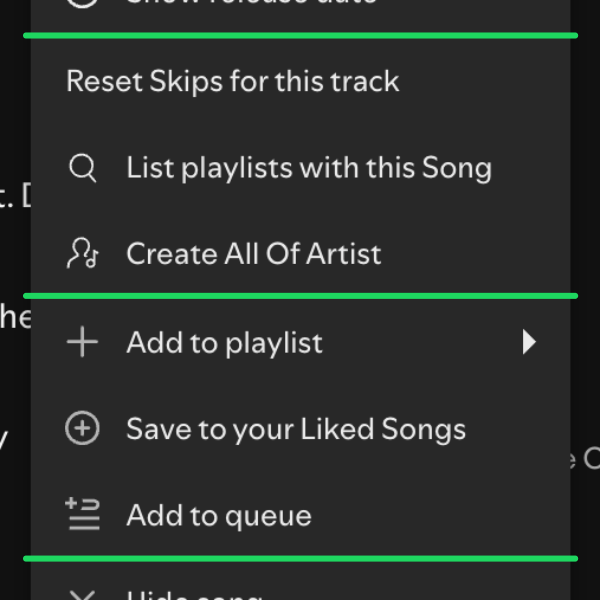
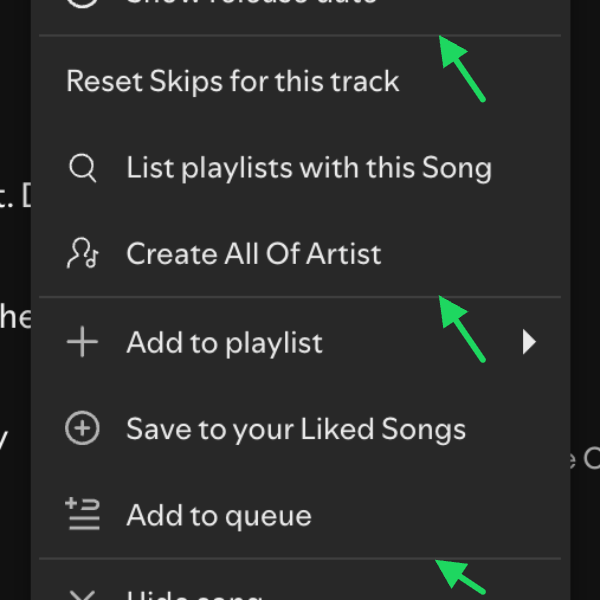
Menu dividers preview with arrows, genre-tags intro names The Sounds of Spotify first

Changed region(s): [[0.03, 0.03, 0.96, 0.18], [0.03, 0.9, 0.96, 0.99], [0.03, 0.48, 0.96, 0.6]]

diff --git a/genre-tags/README.md b/genre-tags/README.md
@@ -1,8 +1,10 @@
 # Genre Tags
 
-Shows the top Last.fm tags of the playing artist under the artist name in the now playing bar.
+Shows the genres of the playing artist in the now playing bar, and links each one to its "The Sound of ..." playlist from [The Sounds of Spotify](https://open.spotify.com/user/thesoundsofspotify) (the Every Noise at Once playlists, like [The Sound of Everything](https://open.spotify.com/playlist/69fEt9DN5r4JQATi52sRtq)).
 
-Click a tag to open the matching "The Sound of ..." playlist by [The Sounds of Spotify](https://open.spotify.com/user/thesoundsofspotify) (Every Noise at Once). If there is no exact match it opens the playlist search instead, where their playlists get a green border.
+- The genres are the artist's top tags on Last.fm, shown under the artist name.
+- Click a genre to open the matching "The Sound of ..." playlist, for example "The Sound of Dream Pop".
+- If there is no exact match it opens the playlist search instead, where playlists by The Sounds of Spotify get a green border.
 
 Spotify no longer exposes artist genres in its client, and the Web API is rate limited, so the tags come from Last.fm.
 
